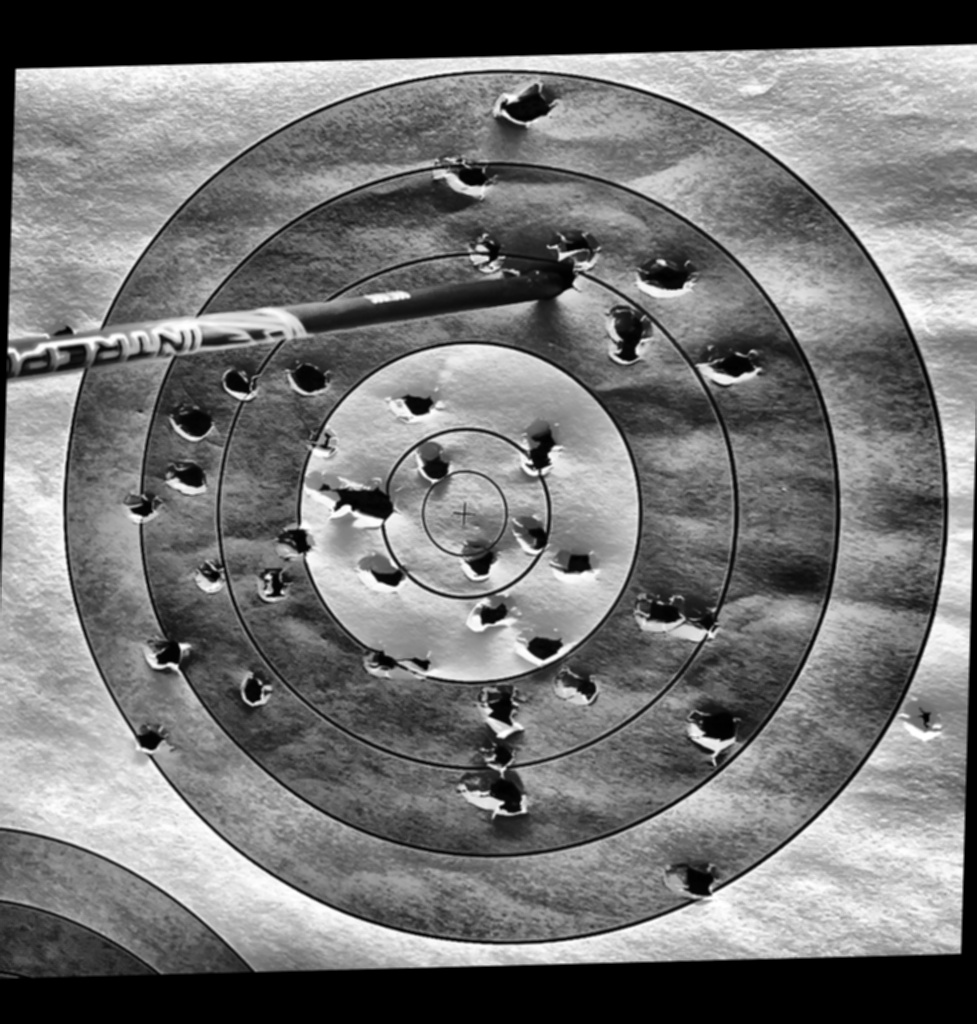
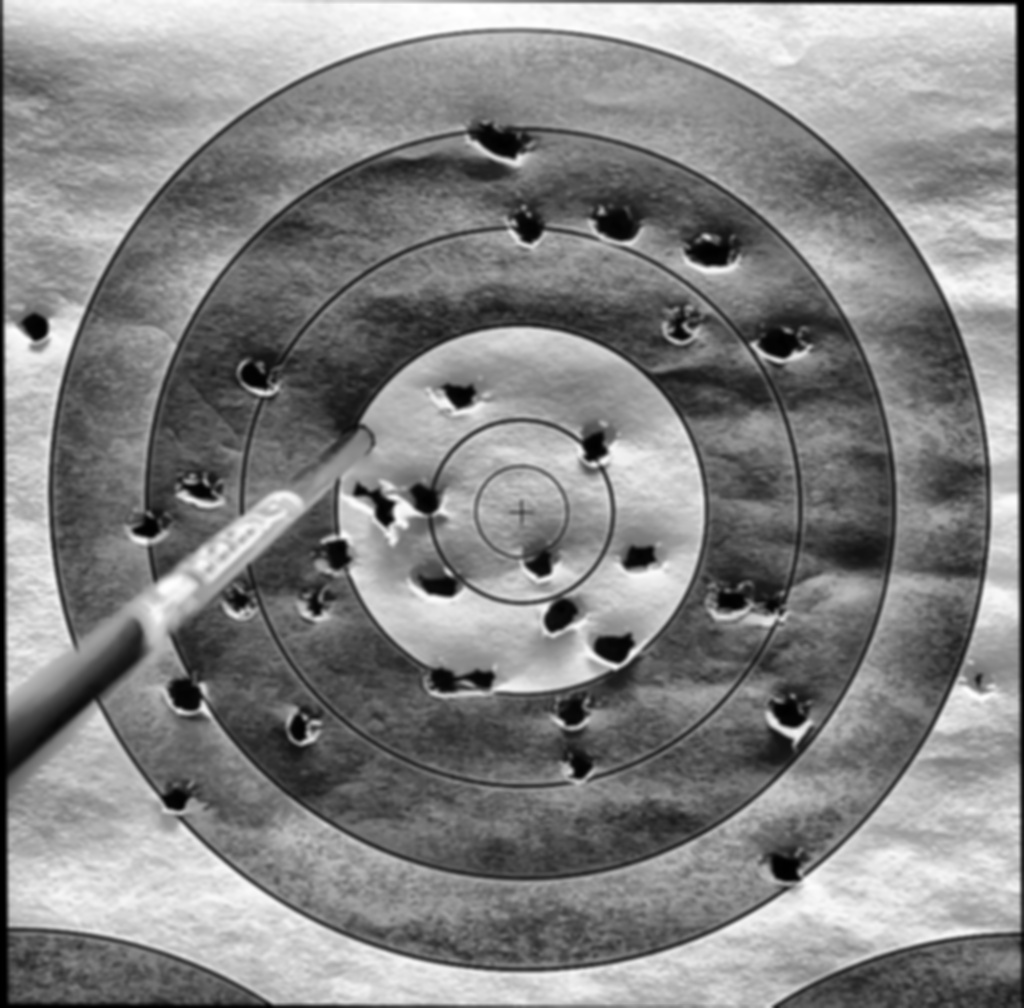
grouping

diff --git a/archery_scorer/target_detector.py b/archery_scorer/target_detector.py
@@ -28,40 +28,42 @@ class TargetDetector:
         # Assuming the preprocessor already rectifies the image to a circle
         # This method would be implemented if needed
         pass
+
+    def group_similar_circles(self, circles, radius_threshold):
+        """
+        Group circles with similar radii.
+        """
+        circles = sorted(circles, key=lambda x: x[2], reverse=True)
+        grouped_circles = []
+        skip_indices = set()
+
+        for i, circle in enumerate(circles):
+            if i in skip_indices:
+                continue
+            similar_circles = [circle]
+            for j, other_circle in enumerate(circles[i+1:], start=i+1):
+                if abs(circle[2] - other_circle[2]) <= radius_threshold:
+                    similar_circles.append(other_circle)
+                    skip_indices.add(j)
+            # Combine similar circles by averaging their coordinates and radii
+            average_circle = np.mean(similar_circles, axis=0).astype(int)
+            grouped_circles.append(average_circle)
+
+        return grouped_circles
+
     
-    def detect_circles(self, dp=1.2, minDist=0.001, param1=150, param2=700, minRadius=1, maxRadius=2000):
+    def detect_circles(self, dp=0.75, minDist=0.000000001, param1=150, param2=700, minRadius=1, maxRadius=2000, radius_threshold=50):
         """
         Detect the concentric circles of the target face using Hough Circle Transform.
-        :param dp: Inverse ratio of the accumulator resolution to the image resolution.
-        :param minDist: Minimum distance between the centers of the detected circles.
-        :param param1: Higher threshold for the Canny edge detector.
-        :param param2: Threshold for center detection.
-        :param minRadius: Minimum circle radius.
-        :param maxRadius: Maximum circle radius.
-        :return: A list of detected circles with (x, y, radius).
         """
-        #gray_image = cv2.cvtColor(self.preprocessed_image, cv2.COLOR_BGR2GRAY)
         image = self.preprocessed_image.copy()
-
-        # Apply Gaussian blur to reduce noise
-        blurred_image = cv2.GaussianBlur(image, (3, 3), 2)
-
-        cv2.imshow("As", blurred_image)
-        cv2.imwrite("blurred.jpg", blurred_image)
-        
-        # Apply edge detection
-        edges = cv2.Canny(blurred_image, 300, 600)
-
-        # Apply morphological operations to close gaps in edges
-        kernel = np.ones((3, 3), np.uint8)
-        edges = cv2.dilate(edges, kernel, iterations=3)
-        cv2.imshow("as", edges)
-        cv2.imwrite("edges.jpg", edges)
+        blurred_image = cv2.GaussianBlur(image, (5, 5), 2)
+        all_circles = []
 
         circles = None
-        while circles is None or len(circles[0])<10:
+        while circles is None or len(circles[0])<15:
             circles = cv2.HoughCircles(
-                edges,
+                blurred_image,
                 cv2.HOUGH_GRADIENT,
                 dp=dp,
                 minDist=minDist,
@@ -71,14 +73,18 @@ class TargetDetector:
                 maxRadius=maxRadius
             )
             param2-=5
-        
-        print(circles)
+
         if circles is not None:
-            print(f"Number of Circles: {len(circles[0])}")
             circles = np.round(circles[0, :]).astype("int")
-            return circles
-        else:
-            return []
+            # Combine all circles onto the original image
+            image_c = self.preprocessed_image.copy()
+            for circle in circles:
+                cv2.circle(image_c, (circle[0], circle[1]), circle[2], (255, 0, 0), 2)
+            cv2.imshow(f"asd",image_c)
+            # Group circles with similar radii
+            circles = self.group_similar_circles(circles, radius_threshold)
+
+        return circles
 
 # Example usage:
 # preprocessed_image = ... # This should be the output from the preprocessor

diff --git a/archery_scorer/preprocessor.py b/archery_scorer/preprocessor.py
@@ -157,7 +157,7 @@ class ImagePreprocessor:
         # Check if the bounding box fits within the image boundaries
         return (bbox_x0 >= 0 and bbox_x1 < width and bbox_y0 >= 0 and bbox_y1 < height)
     
-    def detect_and_correct_ovals(self, canny_threshold1=50, canny_threshold2=200, max_ellipse_axis_ratio=1.0000001):
+    def detect_and_correct_ovals(self, canny_threshold1=50, canny_threshold2=200, max_ellipse_axis_ratio=1.01):
         """
         Detect ovals in the image and correct the perspective to make them circles.
         :param canny_threshold1: Lower threshold for the Canny edge detector.
@@ -196,3 +196,4 @@ class ImagePreprocessor:
         corrected_image = cv2.warpPerspective(self.original_image, transformation, (self.original_image.shape[1], self.original_image.shape[0]))
         
         return corrected_image
+    

diff --git a/tests/test_target_detector.py b/tests/test_target_detector.py
@@ -14,7 +14,7 @@ class TestTargetDetector(unittest.TestCase):
     def setUpClass(cls):
         # This method will be executed once before any test is run
         # Load a test image or create a synthetic one for testing purposes
-        cls.test_image_path = 'tests/data/8-09.jpg'  # Provide a valid path to a test image
+        cls.test_image_path = 'tests/data/9-20.jpg'  # Provide a valid path to a test image
         
         cls.preprocessor = ImagePreprocessor(image_path = cls.test_image_path)
         cls.preprocessed_image = cls.preprocessor.detect_and_correct_ovals()
